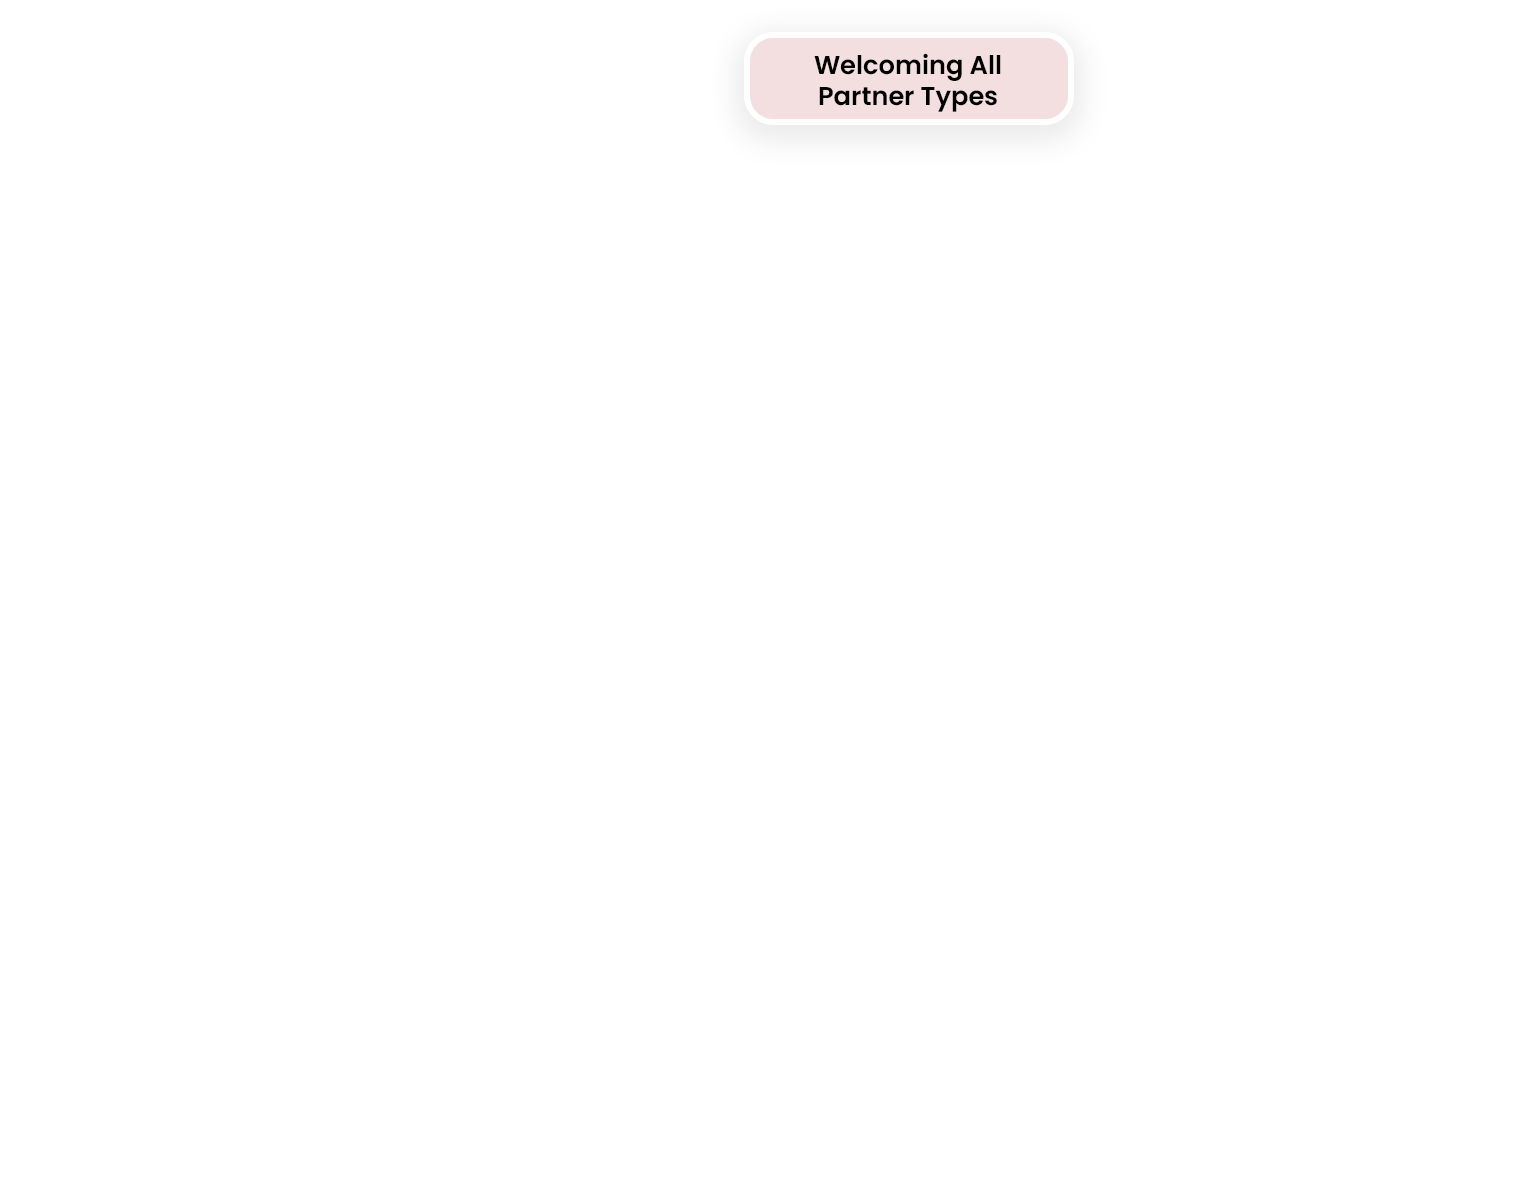
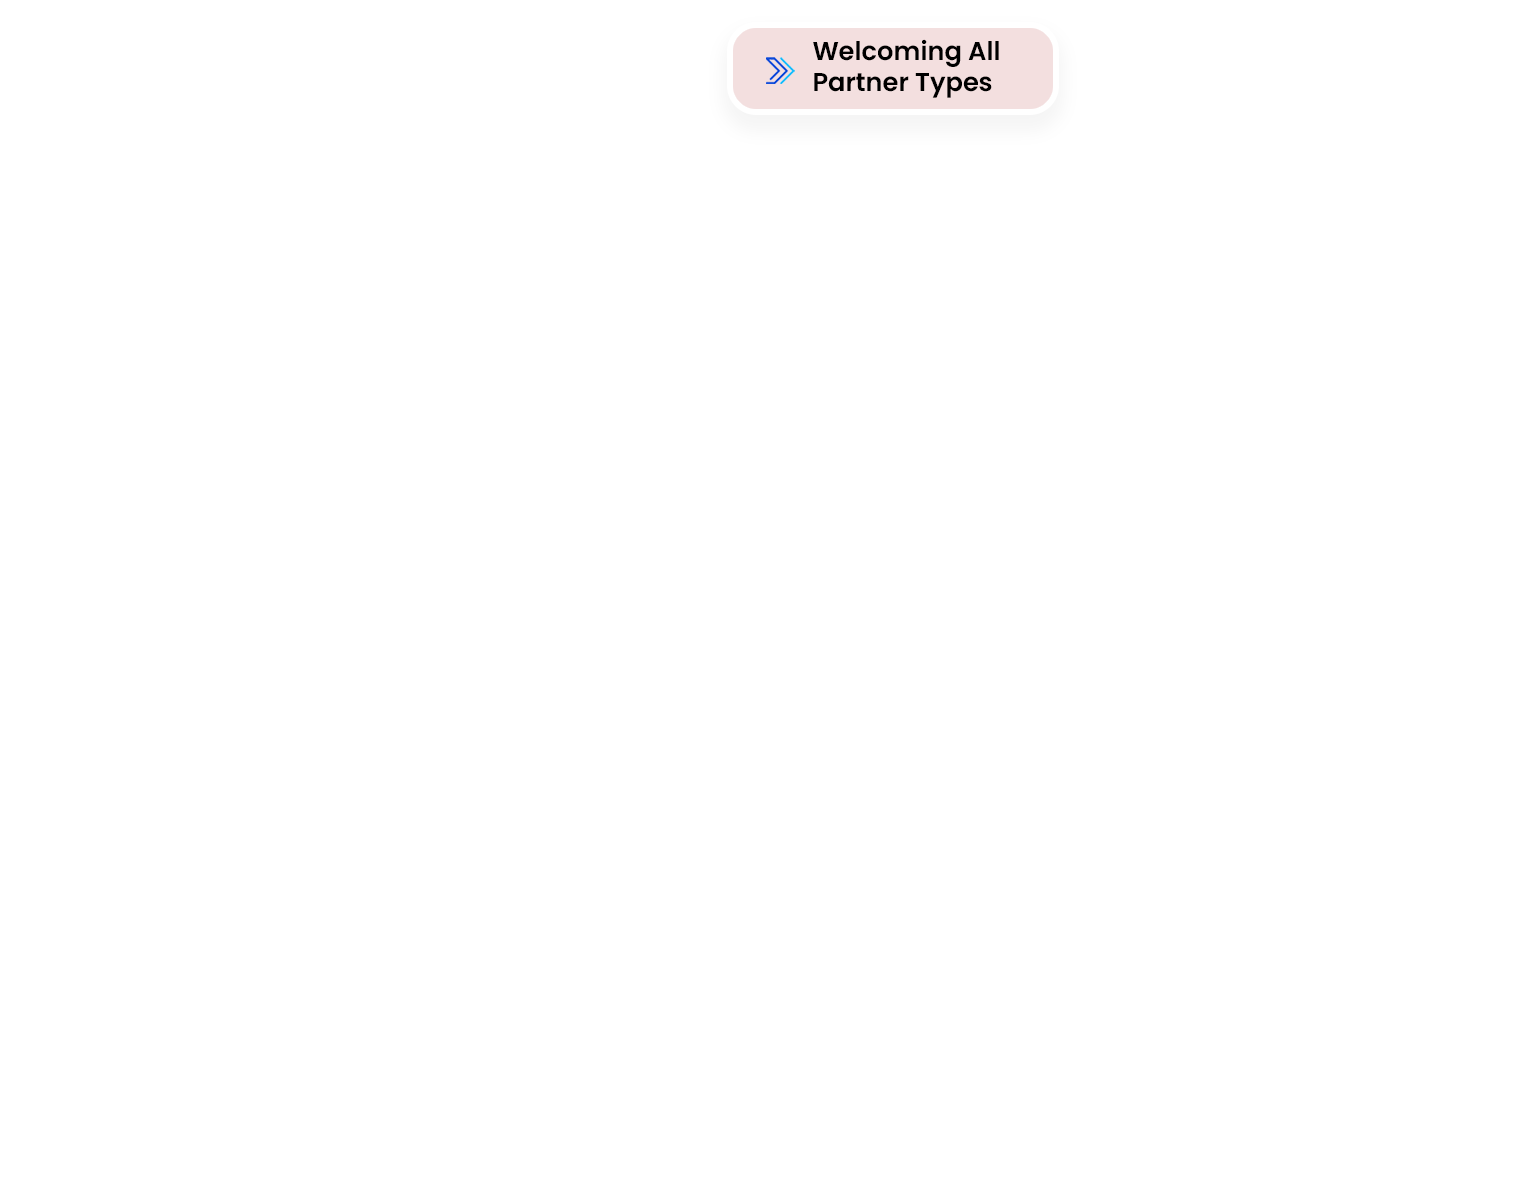
design and responsive fixations v1

Changed region(s): [[0.4593, 0.0, 0.7042, 0.1233]]

diff --git a/Frontend/studiemaven/src/modules/home/AssociateWithUsSection.scss b/Frontend/studiemaven/src/modules/home/AssociateWithUsSection.scss
@@ -1,6 +1,6 @@
 .associate-section {
   background: #fff;
-  padding: 30px 0 100px 0;
+  padding: 110px 0 100px 0;
   margin: 0 auto;
   border-radius: 30px;
   position: relative;
@@ -39,6 +39,9 @@
   margin-left: auto;
   margin-right: auto;
   padding: 0 60px;
+  @media (max-width: 576px) {
+    padding: 0 25px;
+  }
 }
 .associate-section-badge {
   background: #f94c10;
@@ -116,14 +119,11 @@
   text-align: center;
   position: relative;
   transition: box-shadow 0.18s;
-
 }
 .aboutus-page-root{
   background-color: #f8fcff !important;
   padding: 110px 0 50px !important;
 }
-   
-
 .logo-slider-wrap {
   display: flex;
   align-items: center;
@@ -200,12 +200,12 @@
     position: relative;
     width: 750px;
     height: 700px;
-    margin: 0 auto;
+    margin: -50px auto 0 auto;
     @media (max-width: 991px) {
        width: 80%;
        height: 520px;
     }
-     @media (max-width: 576px) {
+    @media (max-width: 576px) {
        width: 100%;
        height: 440px;
     }
@@ -231,12 +231,16 @@
 .circleBack{
   z-index: 0;
 }
-.textbox1{
-  z-index: 999;
+.textbox1, .textbox9{
+  z-index: 999 !important;
 }
 .textbox2, .textbox3, .textbox6,.textbox7, .textbox8{
   z-index: 9;
 }
+#partnerPage .imageWrapper{
+  margin-top: -100px;
+}
+
 @media (max-width: 1050px) and (min-width: 701px) {
   .grid-container-two {
     grid-template-columns: repeat(6, 1fr);

diff --git a/Frontend/studiemaven/src/modules/home/AssociateWithUsSection.js b/Frontend/studiemaven/src/modules/home/AssociateWithUsSection.js
@@ -19,7 +19,7 @@ import AnimTextbox5 from '../../assets/anim-textbox5.png';
 import AnimTextbox6 from '../../assets/anim-textbox6.png';
 import AnimTextbox7 from '../../assets/anim-textbox7.png';
 import AnimTextbox8 from '../../assets/anim-textbox8.png';
-
+import AnimTextbox9 from '../../assets/anim-textbox9.png';
 // Animation variants based on AboutUsPage style
 const circleVariants = {
   initial: { opacity: 0, scale: 0.88, filter: "blur(14px)" },
@@ -90,7 +90,8 @@ export default function AssociateWithUsSection({ id }) {
     { src: AnimTextbox5, alt: "Mutual Growth" },
     { src: AnimTextbox6, alt: "Access to Global Universities" },
     { src: AnimTextbox7, alt: "Changing Lives Through Education" },
-    { src: AnimTextbox8, alt: "Support System & Tools" }
+    { src: AnimTextbox8, alt: "Support System & Tools" },
+    { src: AnimTextbox9, alt: "Empowering Through Collaboration" }
   ];
 
   // In-view animation trigger

diff --git a/Frontend/studiemaven/src/modules/guest/AboutUsPage.scss b/Frontend/studiemaven/src/modules/guest/AboutUsPage.scss
@@ -189,6 +189,18 @@
   width:500px;
   height: 540px;
   position: relative;
+  @media (max-width: 576px) {
+    width:440px;
+    height: 480px;
+  }
+  @media (max-width: 480px) {
+    width:340px;
+    height:380px;
+  }
+  @media (max-width: 380px) {
+    width:300px;
+    height:340px;
+  }
   img{
     position: absolute;
     width: 100%;
@@ -397,7 +409,6 @@
   color: #222;
 }
 
-/* Responsive styles */
 @media (max-width: 600px) {
   .mv-card {
     padding: 18px 10px 22px 10px;
@@ -435,7 +446,6 @@
 @media (max-width: 900px) {
   .aboutus-main-card {
     flex-direction: column;
-    padding: 0;
   }
   .aboutus-left-col,
   .aboutus-right-col {

diff --git a/Frontend/studiemaven/src/modules/guest/WhyUs.scss b/Frontend/studiemaven/src/modules/guest/WhyUs.scss
@@ -285,11 +285,10 @@
 @media (max-width: 900px) {
   .aboutus-main-card {
     flex-direction: column;
-    padding: 0;
   }
   .aboutus-left-col,
   .aboutus-right-col {
-    padding: 22px;
+    padding: 14px;
   }
   .aboutus-quicklinks-bar {
     position: static;
@@ -298,6 +297,9 @@
     height: auto;
     flex-direction: row;
     justify-content: flex-start;
+  }
+   .aboutus-main-card{
+    padding: 20px 30px;
   }
 }
 
@@ -330,5 +332,8 @@
   .aboutus-stat-label {
     font-size: 12px;
     line-height: 16px;
+  }
+  .aboutus-main-card{
+    padding: 20px 20px;
   }
 }

diff --git a/Frontend/studiemaven/src/modules/home/ServicesGrid.js b/Frontend/studiemaven/src/modules/home/ServicesGrid.js
@@ -9,7 +9,7 @@ const SERVICES = [
   { className: 'item4', label: <h5><b>IELTS </b><br />TRAINING</h5> },
   { className: 'item5', label: <h5><b>LANGUAGE </b><br />TRAINING</h5> },
   { className: 'item6', label: <h5><b>FOREIGN </b><br />EXCHANGE</h5> },
-  { className: 'item7', label: <h5><b>EDUCATIONALLOAN </b><br />ASSISTANCE</h5>},
+  { className: 'item7', label: <h5><b>EDUCATIONAL LOAN </b><br />ASSISTANCE</h5>},
   { className: 'item8', label: <h5><b>ACCOMADATION</b></h5> },
   { className: 'item9', label: <h5><b>INTERVIEW </b><br />PREPARATION</h5>},
 ];

diff --git a/Frontend/studiemaven/src/styles.scss b/Frontend/studiemaven/src/styles.scss
@@ -483,7 +483,6 @@ html {
   font-size:16px;
   margin-right: 18px;
 }
-
 .breadcrumb-separator {
     font-size: 13px;
     color: #CBCBD4;
@@ -493,7 +492,10 @@ html {
     font-weight: 700;
     margin: 0;
 }
-
+.aboutus-page-root {
+    z-index: 9;
+    position: relative;
+}
 
 @media (max-width: 991px) {
   .grid-container {

diff --git a/Frontend/studiemaven/src/modules/home/AssociateWithUsPage.js b/Frontend/studiemaven/src/modules/home/AssociateWithUsPage.js
@@ -36,7 +36,7 @@ const AssociateWithUsSectionNew = () => {
       <div className="bg-vectorTwoo"></div>
       <div className="aboutus-page-root" ref={pageRef}>
         <Container>
-          <AssociateWithUsSection />
+          <AssociateWithUsSection id="partnerPage"/>
         </Container>
       </div>
       <Footer />

diff --git a/Frontend/studiemaven/src/modules/home/AnimatedGroup.scss b/Frontend/studiemaven/src/modules/home/AnimatedGroup.scss
@@ -104,7 +104,6 @@
     width: 560px;
     height: 420px;
     bottom:0px;
-    transform: translateX(-280px);
   }
   .sliderCaption {
     padding: 14px 10px!important;
